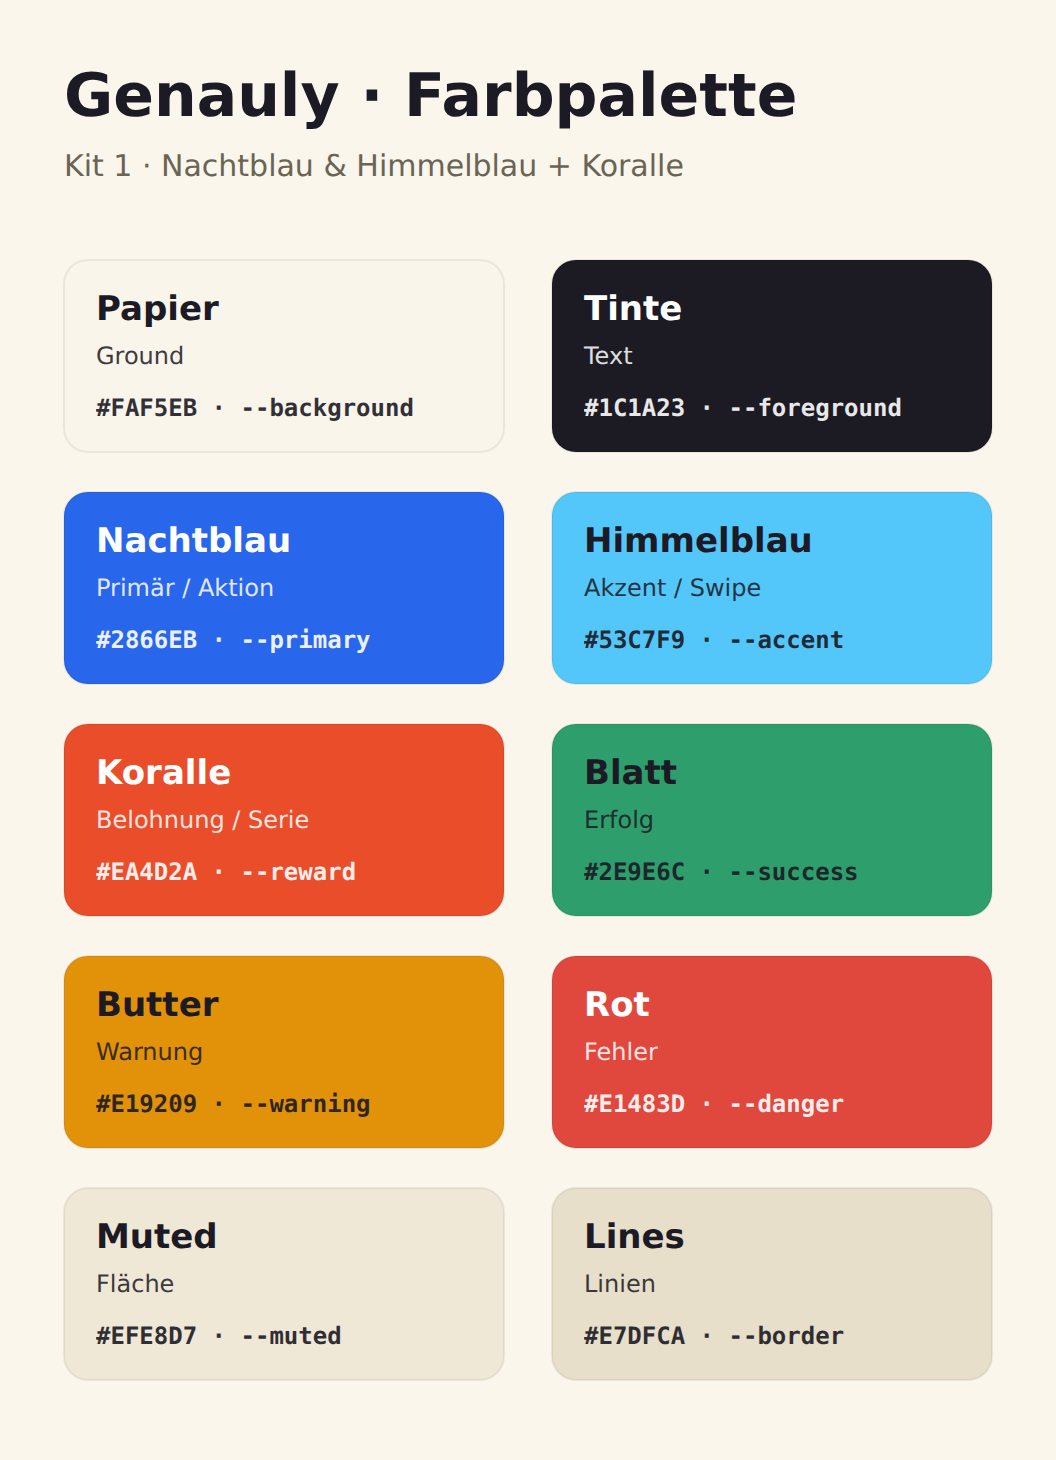
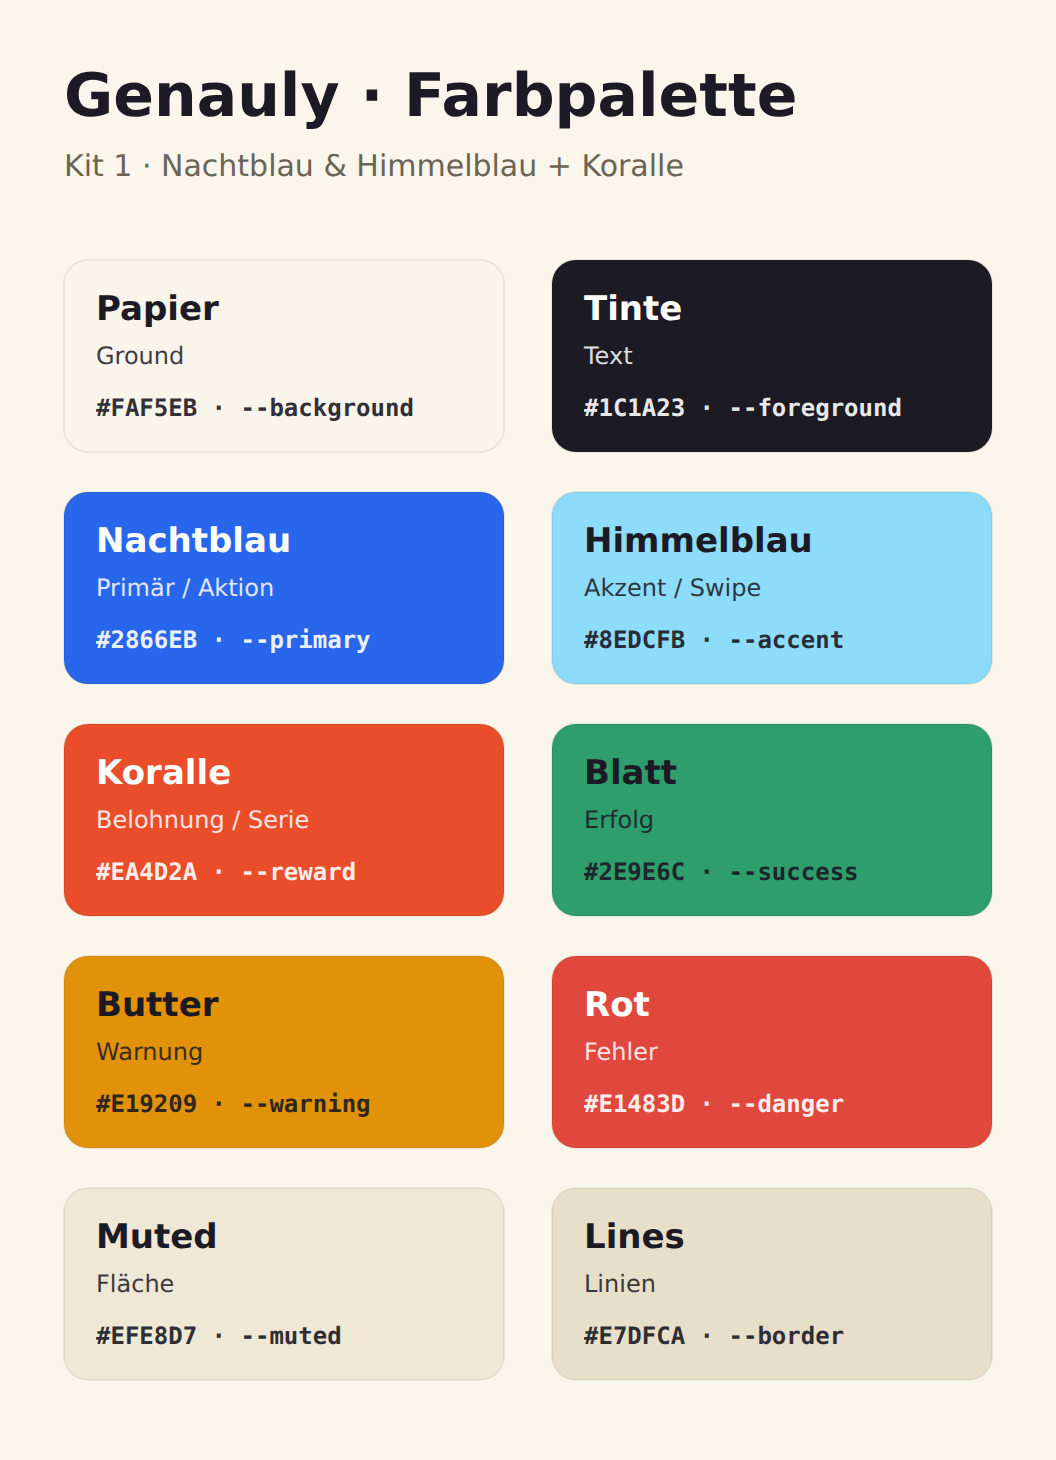
brand: apply Himmel Soft app-wide — --accent token + fixed landing hexes (s138 follow-up) (#613)
Follow-up to the logo v2 rework: the founder asked for the new blue
wherever the old blue appears in the app, content unchanged.

- --accent -> 197 93% 77% (#8CDBFB, Himmel Soft) in BOTH themes in
  index.css (was 198 93% 65% light / 198 90% 70% dark Himmelblau).
- LandingPage.tsx: the numbers-band gradient stop from-[#53C7F9] and a
  decorative doodle stroke -> #8CDBFB.
- Deliberately untouched: --accent-ink (the dark text derivative) and the
  CTA --gradient-* stops (different, darker blues, AA-tuned in s137).
- Brand kit regenerated (tokens read live from index.css); BRAND_SPEC
  Akzent rows + CLAUDE.md + status handoff corrected (they recorded the
  token as deliberately unchanged, which no longer holds).

Gates: check:contrast all pass, typecheck, lint 0 errors, test:unit
219/219, build.

Claude-Session: https://claude.ai/code/session_01HzTod7vE4kYP8w3E586yhq

Changed region(s): [[0.5, 0.339, 0.9375, 0.4932]]

diff --git a/src/index.css b/src/index.css
@@ -44,9 +44,11 @@ input:-webkit-autofill {
        (5.0:1) and primary-as-text on Papier (4.6:1) both clear AA. */
     --primary: 221 83% 54%;
     --primary-foreground: 0 0% 100%;
-    /* Himmelblau. Light, so it pairs with INK, never white; and it is never
-       used as text on light ground: text call sites use --accent-ink. */
-    --accent: 198 93% 65%;
+    /* Himmel Soft #8CDBFB (s138 follow-up: the logo's new softer blue applied
+       app-wide; was Himmelblau 198 93% 65%). Light, so it pairs with INK,
+       never white; and it is never used as text on light ground: text call
+       sites use --accent-ink. */
+    --accent: 197 93% 77%;
     --accent-foreground: 202 71% 13%;
     --accent-ink: 198 90% 32%;
 
@@ -125,7 +127,7 @@ input:-webkit-autofill {
 
     --primary: 221 90% 70%;
     --primary-foreground: 228 30% 8%;
-    --accent: 198 90% 70%;
+    --accent: 197 93% 77%; /* Himmel Soft, same swatch as light (s138) */
     --accent-foreground: 202 71% 10%;
     --accent-ink: 198 85% 72%;
 
@@ -464,7 +466,7 @@ input:-webkit-autofill {
 /* swipe device, scenario marquee, and hero-collage float. Scoped   */
 /* with a `landing-` prefix; used only by features/landing.         */
 /* The swiped word keeps ink-dark text in BOTH themes: the swipe    */
-/* ground is always light Himmelblau, like a real highlighter.      */
+/* ground is always light Himmel Soft, like a real highlighter.     */
 .landing-swipe {
   position: relative;
   display: inline-block;

diff --git a/src/features/landing/LandingPage.tsx b/src/features/landing/LandingPage.tsx
@@ -855,10 +855,10 @@ export function LandingPage() {
             {numbers.map(([en, de, label]) => (
               <div key={label}>
                 {/* Gradient-clipped stat numbers (s137, report item 10): the ONE
-                    sanctioned text-gradient moment. Fixed light Himmelblau→sky
+                    sanctioned text-gradient moment. Fixed light Himmel-Soft→sky
                     stops because this band is fixed-dark in both themes (the
                     token gradient would be too dark here in light mode). */}
-                <b className="block bg-gradient-to-r from-[#53C7F9] to-[#8AB0F9] bg-clip-text text-[clamp(1.8rem,3.4vw,2.5rem)] font-extrabold tracking-tight text-transparent">
+                <b className="block bg-gradient-to-r from-[#8CDBFB] to-[#8AB0F9] bg-clip-text text-[clamp(1.8rem,3.4vw,2.5rem)] font-extrabold tracking-tight text-transparent">
                   {lang === "de" ? de : en}
                 </b>
                 <span className="mt-1 block text-sm leading-snug text-[#faf5eb]/65">{label}</span>
@@ -988,7 +988,7 @@ export function LandingPage() {
       {/* ---- Closing CTA ---- */}
       <section className="mx-auto max-w-6xl px-4 pb-20 sm:px-6">
         <div className="relative overflow-hidden rounded-[32px] bg-gradient-to-br from-[#2866EB] via-[#1D4FC0] to-[#173F9E] px-6 py-16 text-center text-white shadow-elevated sm:py-20">
-          <svg className="absolute left-[6%] top-[18%] w-[56px] opacity-50" viewBox="0 0 60 60" fill="none" stroke="#53C7F9" strokeWidth="2.6" strokeLinecap="round">
+          <svg className="absolute left-[6%] top-[18%] w-[56px] opacity-50" viewBox="0 0 60 60" fill="none" stroke="#8CDBFB" strokeWidth="2.6" strokeLinecap="round">
             <path d="M30 8 L30 22 M30 38 L30 52 M8 30 L22 30 M38 30 L52 30" />
           </svg>
           <svg className="absolute bottom-[20%] right-[8%] w-[44px] opacity-60" viewBox="0 0 50 50" fill="#F5785C">

diff --git a/brand-kit/color/tokens.css b/brand-kit/color/tokens.css
@@ -13,7 +13,7 @@
   --ring: 221 83% 54%; /* #2866EB */
   --primary: 221 83% 54%; /* #2866EB */
   --primary-foreground: 0 0% 100%; /* #FFFFFF */
-  --accent: 198 93% 65%; /* #53C7F9 */
+  --accent: 197 93% 77%; /* #8EDCFB */
   --accent-foreground: 202 71% 13%; /* #0A2739 */
   --accent-ink: 198 90% 32%; /* #086F9B */
   --success: 153 55% 40%; /* #2E9E6C */
@@ -48,7 +48,7 @@
   --ring: 221 90% 70%; /* #6E99F7 */
   --primary: 221 90% 70%; /* #6E99F7 */
   --primary-foreground: 228 30% 8%; /* #0E111B */
-  --accent: 198 90% 70%; /* #6ECEF7 */
+  --accent: 197 93% 77%; /* #8EDCFB */
   --accent-foreground: 202 71% 10%; /* #071E2C */
   --accent-ink: 198 85% 72%; /* #7BD0F4 */
   --success: 153 50% 52%; /* #47C28B */

diff --git a/docs/branding/BRAND_SPEC.md b/docs/branding/BRAND_SPEC.md
@@ -41,7 +41,7 @@ space-separated format, ready to paste.
 | Lines | — | `#E7DEC9` | `42 38% 85%` | `--border`, `--input` |
 | **Primär** | **Nachtblau** | **`#3D74ED`** | **`221 83% 58%`** | `--primary`, `--ring` |
 | — | on primary | `#FFFFFF` | `0 0% 100%` | `--primary-foreground` |
-| **Akzent** | **Himmelblau** | **`#52C6F9`** | **`198 93% 65%`** | `--accent` |
+| **Akzent** | **Himmel Soft** | **`#8CDBFB`** | **`197 93% 77%`** | `--accent` (s138; was Himmelblau `#52C6F9`) |
 | — | on accent | `#0A2A3A` | `202 71% 13%` | `--accent-foreground` |
 | Erfolg | Blatt | `#2E9E6B` | `153 55% 40%` | `--success` |
 | Warnung | Butter | `#F3C24B` | `43 87% 62%` | `--warning` (fg `#3A2E12`) |
@@ -53,8 +53,9 @@ space-separated format, ready to paste.
 **The three brand moves vs. today:**
 1. **Nachtblau `#3D74ED`** replaces the indigo primary. It is the nav's dark blue `#2563EB`
    (`nav-items.ts`) lightened ~11%.
-2. **Himmelblau `#52C6F9`** is the new accent (chips, active-tab tint, the logo swipe). It is the nav's
-   light blue `#38BDF8` lightened ~13%.
+2. **Himmel Soft `#8CDBFB`** is the accent (chips, active-tab tint, the logo swipe) since s138; the
+   original Himmelblau `#52C6F9` (the nav's light blue `#38BDF8` lightened ~13%) read too harsh
+   against black/white and was retired from both the logo and the token.
 3. **Koralle `#F0603F`** is a warm counterpoint to the two blues, mapped to `--reward` (streak /
    celebration). Butter stays as a secondary warm tone (`--warning`).
 
@@ -66,7 +67,7 @@ identity. Live values (`.dark` in `src/index.css` is the source of truth; same l
 as the proposal, every pairing gated by `pnpm check:contrast`):
 - `--background` `228 24% 10%` (`#131620`), `--surface` `228 20% 14%`, `--foreground` `228 20% 92%`
   (`#e7e8ef`); the no-JS shells + PWA manifest carry the same hexes.
-- `--primary` Nachtblau lifted `221 90% 70%`, `--accent` Himmelblau `198 90% 70%`, `--reward`
+- `--primary` Nachtblau lifted `221 90% 70%`, `--accent` Himmel Soft `197 93% 77%` (s138), `--reward`
   Koralle `11 88% 66%`.
 - Gradient stops are per-theme tokens since s137 (`--gradient-from`/`--gradient-to`): the dark sweep
   stays light end-to-end so the near-black `primary-foreground` text passes AA.
@@ -76,9 +77,9 @@ as the proposal, every pairing gated by `pnpm check:contrast`):
 - Mark: `preview/branding/genauly-logo-final.svg`. Swipe path (in a 64×64 viewBox, rotated `-3° about
   32,32`): `M 12 24 L 52 20 Q 57 23 55 30 L 54 45 L 13 49 Q 9 45 10 34 Z`, fill **Himmel Soft
   `#8CDBFB`** (logo v2 rework 2026-07-20: the founder found the original Himmelblau `#52C6F9` too
-  harsh against black/white; the app's `--accent` token stays `#52C6F9`, only the logo swipe
-  lightened). The swipe bottom was extended (from `…L 54 40 L 13 44 Q 9 40 10 32 Z`) so it fully covers
-  the closed bowl of the **g**; the descender still pokes out naturally.
+  harsh against black/white; in a same-session follow-up Himmel Soft also became the app-wide
+  `--accent`, see §1). The swipe bottom was extended (from `…L 54 40 L 13 44 Q 9 40 10 32 Z`) so it
+  fully covers the closed bowl of the **g**; the descender still pokes out naturally.
 - **Logo v2 rework additions (2026-07-20):** (1) icons center the mark by its TRUE bounding box
   ("Randnah", 5% margin), fixing the empty band above the mark in the old app icon; (2) dark-ground
   marks are TWO-TONE, ink where the artwork sits on the swipe, white where it falls off (only the g's

diff --git a/docs/SESSION_PROMPT_LOG.md b/docs/SESSION_PROMPT_LOG.md
@@ -534,3 +534,17 @@ W29 chunk on 2026-07-20). Keep appending here, newest at the bottom, and rotate 
   `index.html` · `scripts/prerender-help.mjs` · `public/genauly-*.png` + favicons/pwa/apple-touch/og ·
   `preview/branding/genauly-logo-final.svg` · `brand-kit/` (regenerated) ·
   `docs/branding/BRAND_SPEC.md` · `CLAUDE.md` · `docs/PROJECT_STATUS.md` · this log
+- **Prompt 8 (verbatim):** `> now without changing any of the content, just apply the new blue to wherever the old blue is there in the app.`
+- **Response 8:** Applied Himmel Soft app-wide as the accent: `--accent` → `197 93% 77%` (#8CDBFB)
+  in BOTH themes in `src/index.css` (comments updated), plus the two fixed old-blue hexes in
+  `LandingPage.tsx` (the numbers-band `from-[#53C7F9]` gradient stop and a decorative doodle
+  stroke). Deliberately untouched: `--accent-ink` (the dark text derivative) and the CTA
+  `--gradient-*` stops (different, darker blues, AA-tuned in s137). Brand kit regenerated
+  (tokens.css/json/palette now carry the new accent); BRAND_SPEC §1/§2 Akzent rows + CLAUDE.md
+  + the s138 status handoff corrected (they had recorded the token as deliberately unchanged).
+  Gates: check:contrast all pass · typecheck ✓ · lint 0 errors · test:unit 219/219 · build ✓.
+  Verified the landing swipe/chips render in the new blue via preview screenshot. Squash-merged
+  to `main`.
+- **Artifacts (prompt 8):** `src/index.css` · `src/features/landing/LandingPage.tsx` ·
+  `brand-kit/color/*` (regenerated) · `docs/branding/BRAND_SPEC.md` · `CLAUDE.md` ·
+  `docs/PROJECT_STATUS.md` · this log

diff --git a/docs/PROJECT_STATUS.md b/docs/PROJECT_STATUS.md
@@ -7,7 +7,9 @@ bounding box ("Randnah", 5% margin — the app icon no longer floats small with 
 top), dark-ground logos are **two-tone** (ink on the swipe, white off it; only the g splits), and a
 new lowercase **wordmark** "genauly" (swipe under "genau") is the primary logo wherever there is
 room (`Logo variant="wordmark"`; the mobile header keeps the compact g). Iterated across 8 preview
-rounds in a claude.ai artifact. Product name: **Genauly** (`genauly.de`)._
+rounds in a claude.ai artifact. A same-session follow-up then applied Himmel Soft **app-wide as the
+`--accent` token** (both themes, `197 93% 77%`; contrast gate green). Product name: **Genauly**
+(`genauly.de`)._
 
 This is the **lean, living** status doc: current state plus the two most recent session handoffs.
 **Start at the `## Resume here (next session)` section at the end.** Companion files:
@@ -68,8 +70,12 @@ Completed setup items are recorded in `docs/PROJECT_FOUNDATION.md`. Still open:
 swipe too harsh against black/white and iterated through 8 artifact preview rounds (v2→v8) to a
 finalized design, then said "finalize these logos and Randnah favicon, apply everywhere, logos
 only." What shipped:
-- **Swipe color: Himmel Soft `#8CDBFB`** on every logo asset. The app's `--accent` token stays
-  Himmelblau `#52C6F9` (deliberately decoupled; only the logo lightened).
+- **Swipe color: Himmel Soft `#8CDBFB`** on every logo asset. (Initially the `--accent` token was
+  deliberately left at Himmelblau `#52C6F9`; a same-session follow-up prompt then applied Himmel
+  Soft app-wide: `--accent: 197 93% 77%` in BOTH themes in `index.css`, plus the two fixed
+  `#53C7F9` hexes on the landing (numbers-band gradient stop, decorative doodle stroke). The darker
+  `--accent-ink` text variant and the CTA `--gradient-*` stops are different blues and stayed.
+  `check:contrast` green; brand kit regenerated.)
 - **Icons re-centered ("Randnah"):** `build-logo-assets.mjs` now measures the mark's true bbox
   in-browser and centers it at 5% margin (favicons/apple-touch/pwa; maskable keeps the 80% safe
   zone at 10%). This fixes the founder-screenshotted "empty band above the g" app icon. Never

diff --git a/CLAUDE.md b/CLAUDE.md
@@ -724,8 +724,9 @@ all popups/modals/dialogs** going forward (don't reintroduce flat `bg-black/*` o
   gradient-clipped stat values are the one sanctioned `text-gradient`-style moment.
 - **Current mark (s133 PR B, reworked s138 2026-07-20): the lowercase g on a Himmel Soft highlighter
   swipe**. The swipe is **Himmel Soft `#8CDBFB`** (founder-picked s138: the original Himmelblau
-  `#52C6F9` read too harsh against black/white; the `--accent` token is UNCHANGED, only the logo
-  lightened). The **g is OUTLINED to a `<path>`** (Inter 800, the app's own UI typeface) so it renders
+  `#52C6F9` read too harsh against black/white). In a same-session follow-up the founder applied
+  Himmel Soft app-wide: **`--accent` is now `197 93% 77%` in BOTH themes** (index.css; the darker
+  `--accent-ink` text variant and the CTA `--gradient-*` stops are different blues and stayed). The **g is OUTLINED to a `<path>`** (Inter 800, the app's own UI typeface) so it renders
   identically everywhere. **s138 additions:** (1) every icon centers the mark by its TRUE bounding box
   ("Randnah", 5% margin; the raw path sits low in the 64-box and used to leave an empty band at the top
   of the app icon — never revert to raw-coordinate centering); (2) **dark-ground marks are TWO-TONE**: